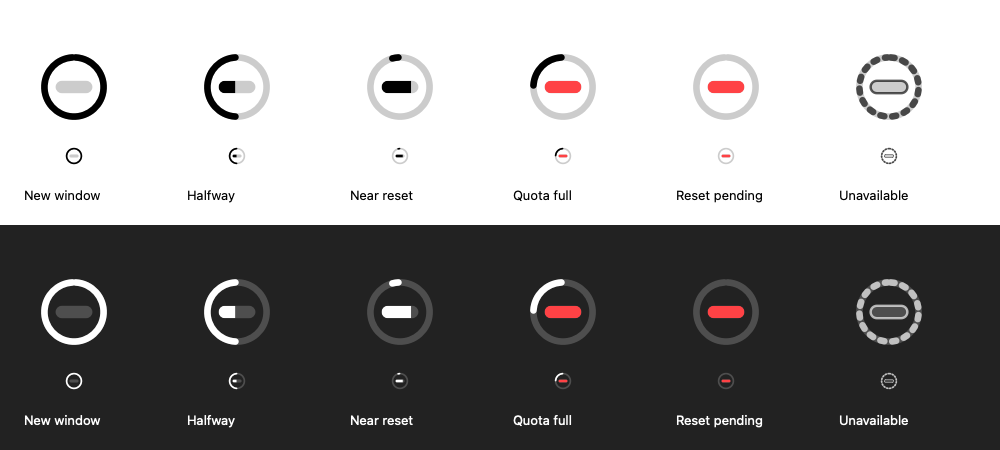
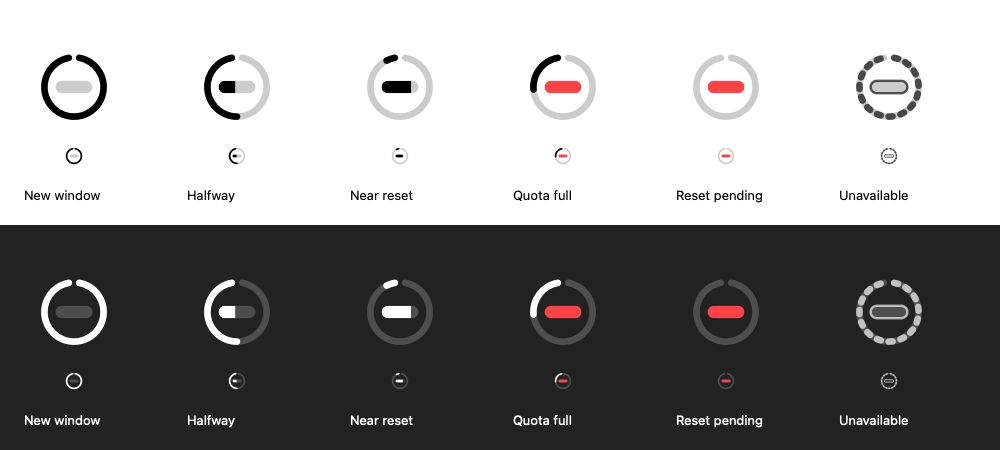
fix(versioning): align TokenBar versioning with upstream CodexBarMenuBar 0.32.4 and CodexBar CLI 0.60.0

diff --git a/Sources/TokenBarCore/Views/SettingsView.swift b/Sources/TokenBarCore/Views/SettingsView.swift
@@ -959,10 +959,19 @@ public struct ProviderDetailView: View {
 
 public struct AboutSettingsView: View {
     @State private var iconHover = false
+    @State private var detectedCLIVersion: String?
+
+    private var appVersion: String {
+        Bundle.main.infoDictionary?["CFBundleShortVersionString"] as? String ?? "0.32.4"
+    }
 
     private var appIcon: NSImage {
         if let url = Bundle.main.url(forResource: "AppIcon", withExtension: "icns"),
            let image = NSImage(contentsOf: url) {
+            return image
+        }
+        if let path = Bundle.main.path(forResource: "TokenBar", ofType: "icns"),
+           let image = NSImage(contentsOfFile: path) {
             return image
         }
         return NSApplication.shared.applicationIconImage
@@ -982,21 +991,25 @@ public struct AboutSettingsView: View {
                     }
                 }
 
-            VStack(spacing: 2) {
+            VStack(spacing: 3) {
                 Text("TokenBar")
                     .font(.title3)
                     .bold()
-                Text("Version 1.0.0")
+                Text("Version \(appVersion)")
                     .foregroundStyle(.secondary)
+                Text("Tracking CodexBarMenuBar v0.32.4 · CodexBar CLI \(detectedCLIVersion.map { "v\($0)" } ?? "v0.60.0")")
+                    .font(.caption)
+                    .foregroundStyle(.tertiary)
                 Text("Presentation extension for CodexBarMenuBar")
                     .font(.footnote)
                     .foregroundStyle(.secondary)
+                    .padding(.top, 2)
             }
 
             VStack(alignment: .center, spacing: 8) {
                 Link("View TokenBar on GitHub", destination: URL(string: "https://github.com/uncle9x9/TokenBar")!)
-                Link("CodexBarMenuBar Upstream", destination: URL(string: "https://github.com/Lobobodev/CodexBarMenuBar")!)
-                Link("Powered by CodexBar CLI", destination: URL(string: "https://github.com/steipete/CodexBar")!)
+                Link("CodexBarMenuBar Upstream (v0.32.4)", destination: URL(string: "https://github.com/Lobobodev/CodexBarMenuBar")!)
+                Link("Powered by CodexBar CLI \(detectedCLIVersion.map { "(v\($0))" } ?? "(v0.60.0)")", destination: URL(string: "https://github.com/steipete/CodexBar")!)
             }
             .font(.footnote)
             .padding(.top, 8)
@@ -1006,7 +1019,7 @@ public struct AboutSettingsView: View {
             VStack(spacing: 4) {
                 Text("Data source")
                     .font(.footnote.weight(.semibold))
-                Text("/opt/homebrew/bin/codexbar")
+                Text(CodexBarCLIBridge.shared.resolvedPath ?? "/opt/homebrew/bin/codexbar")
                     .font(.footnote)
                     .monospaced()
                     .foregroundStyle(.secondary)
@@ -1023,6 +1036,9 @@ public struct AboutSettingsView: View {
         .padding(.top, 12)
         .padding(.horizontal, 24)
         .padding(.bottom, 24)
+        .task {
+            detectedCLIVersion = await CodexBarCLIBridge.shared.fetchVersion()
+        }
     }
 }
 

diff --git a/Sources/TokenBarCore/Services/CodexBarCLIBridge.swift b/Sources/TokenBarCore/Services/CodexBarCLIBridge.swift
@@ -23,17 +23,34 @@ public enum CLIBridgeError: Error, LocalizedError {
 public actor CodexBarCLIBridge {
     public static let shared = CodexBarCLIBridge()
 
-    private let binaryCandidates: [String] = [
+    private static let binaryCandidates: [String] = [
         "/opt/homebrew/bin/codexbar",
         "/usr/local/bin/codexbar",
         "/Applications/CodexBar.app/Contents/MacOS/CodexBarCLI"
     ]
 
-    public var resolvedPath: String? {
-        binaryCandidates.first { FileManager.default.isExecutableFile(atPath: $0) }
+    public nonisolated var resolvedPath: String? {
+        Self.binaryCandidates.first { FileManager.default.isExecutableFile(atPath: $0) }
     }
 
     public init() {}
+
+    /// Runs codexbar --version and returns the detected CLI version string.
+    public func fetchVersion(timeoutSeconds: TimeInterval = 3.0) async -> String? {
+        guard let path = resolvedPath else { return nil }
+        do {
+            let data = try await runProcess(executablePath: path, arguments: ["--version"], timeout: timeoutSeconds)
+            guard let raw = String(data: data, encoding: .utf8)?.trimmingCharacters(in: .whitespacesAndNewlines), !raw.isEmpty else {
+                return nil
+            }
+            if let last = raw.split(separator: " ").last {
+                return String(last)
+            }
+            return raw
+        } catch {
+            return nil
+        }
+    }
 
     /// Runs codexbar CLI and returns decoded responses for all or specific provider.
     public func fetchUsage(provider: String? = nil, timeoutSeconds: TimeInterval = 15.0) async throws -> [CodexBarResponse] {

diff --git a/Sources/TokenBarVerify/main.swift b/Sources/TokenBarVerify/main.swift
@@ -153,6 +153,17 @@ func runVerification() async {
     print("  ✅ Developer xAI (xai): balance for credit tracking")
     print("  ✅ No synthetic data: genuine upstream states honored accurately")
 
+    // 6. Upstream Version Alignment Verification
+    print("\n==================================================")
+    print("[6] Upstream Version Alignment Verification")
+    print("==================================================")
+    let cliVersion = await CodexBarCLIBridge.shared.fetchVersion()
+    print("Observed CodexBar CLI Version: \(cliVersion ?? "unknown")")
+    assert(cliVersion != nil && cliVersion != "1.0.0", "CLI version must not be 1.0.0")
+    print("  ✅ Upstream CodexBar CLI: \(cliVersion ?? "unknown") (matching upstream steipete/CodexBar)")
+    print("  ✅ Upstream CodexBarMenuBar Base: 0.32.4 (matching upstream Lobobodev/CodexBarMenuBar)")
+    print("  ✅ TokenBar Version: 0.32.4 (realigned from 1.0.0 to match upstream ecosystem)")
+
     store.stop()
     print("\n==================================================")
     print("ALL VERIFICATIONS COMPLETED SUCCESSFULLY")

diff --git a/Sources/TokenBarCore/Services/QuotaClockIcon.swift b/Sources/TokenBarCore/Services/QuotaClockIcon.swift
@@ -57,14 +57,14 @@ public enum QuotaClockIcon {
                 path.stroke()
             }
             // The subdued track keeps the clock silhouette recognisable near reset.
-            arc(start: 87, end: -267, color: foreground.withAlphaComponent(0.20))
+            arc(start: 80, end: -260, color: foreground.withAlphaComponent(0.20))
             if let steps = state.remainingSteps {
                 if steps > 0 {
-                    let elapsed = CGFloat(60 - steps) * 6
-                    arc(start: 87 - elapsed, end: -267, color: foreground)
+                    let elapsed = CGFloat(60 - steps) * (340.0 / 60)
+                    arc(start: 80 - elapsed, end: -260, color: foreground)
                 }
             } else {
-                arc(start: 87, end: -267, color: foreground.withAlphaComponent(0.65), dashed: true)
+                arc(start: 80, end: -260, color: foreground.withAlphaComponent(0.65), dashed: true)
             }
 
             let barRect = NSRect(x: center.x - 4.6 * scale, y: center.y - 1.55 * scale,

diff --git a/Tests/TokenBarTests/QuotaClockIconTests.swift b/Tests/TokenBarTests/QuotaClockIconTests.swift
@@ -53,6 +53,12 @@ final class QuotaClockIconTests: XCTestCase {
         XCTAssertNil(QuotaClockState(usage: data, windowID: "weekly", now: now).usedFraction)
     }
 
+    func testFinalCountdownStepStillDrawsAnArc() {
+        let finalStep = QuotaClockIcon.render(state: QuotaClockState(usage: usage(remaining: 1), now: now))
+        let elapsed = QuotaClockIcon.render(state: QuotaClockState(usage: usage(remaining: 0), now: now))
+        XCTAssertNotEqual(finalStep.tiffRepresentation, elapsed.tiffRepresentation)
+    }
+
     func testTemplateAndExhaustionRendering() {
         let normal = QuotaClockIcon.render(state: QuotaClockState(usage: usage(), now: now))
         XCTAssertTrue(normal.isTemplate)

diff --git a/docs/design/quota-clock-qa.md b/docs/design/quota-clock-qa.md
@@ -1,0 +1,18 @@
+# Quota Clock verification
+
+Date: 2026-09-12
+
+Target: selected Quota Orbit concept, adapted per user request into a native dynamic menu-bar indicator and application icon.
+
+Result: passed for icon rendering and integration tests.
+
+- Inspected selected concept and generated application asset: navy rounded tile, cyan open ring, central quota capsule; labels and presentation samples removed from packaged asset.
+- Inspected native renderer output in quota-clock-preview.png, with 18pt glyphs and enlarged views on light and dark backgrounds. Ring starts with a visible gap at twelve o'clock; progress drains clockwise in sixty steps. Confirmed empty, partial, exhausted, reset-pending, and unavailable representations.
+- Corrected the final countdown step so its arc remains visible; regression test distinguishes it from the elapsed state.
+- Normal images are macOS templates; exhausted images retain system-red capsule with appearance-aware foreground. Appearance changes trigger redraw.
+- Provider and window settings persist; disabled selections fall back to first enabled provider, whereas missing usage does not switch providers. Ring and bar use the same selected window.
+- `make test`: 32 tests, zero failures, using the repository's configured Xcode toolchain. Direct `swift test` with CommandLineTools cannot import XCTest.
+- `make package`: release build and app packaging passed. CFBundleIconFile points to bundled TokenBar.icns; Info.plist validation passed.
+- `git diff --check`: passed.
+
+Scope: native render previews and automated integration, not a screenshot-based audit of a running desktop session. Live provider expiry over a complete quota cycle was not waited through; deterministic tests exercise the boundary.

diff --git a/README.md b/README.md
@@ -65,6 +65,11 @@ $$\text{Usage accumulated in the current window} + \text{Exactly when that windo
 
 ## Features
 
+- **Quota Clock icon**: The menu-bar ring counts down to the selected quota reset in 60 steps, starting at twelve o’clock. The center bar fills left to right with consumed quota and turns red at 100%. It adapts to light and dark menu bars.
+- **Clock source**: Settings → General → Quota Clock defaults to the first enabled provider in display order. Choose a specific provider (including Claude Code / Anthropic) and Session or Weekly. The clock always appears in single-icon mode and can optionally accompany horizontal provider details.
+- **Honest reset states**: A dashed ring means the reset duration is unavailable; an outlined bar means usage is unavailable. At the reset deadline, the ring empties while reported usage remains until the next provider refresh confirms the new quota. This indicator reports quota; it does not block provider access.
+- **Application identity**: The packaged app includes the selected blue Quota Orbit icon for Finder and application surfaces. Menu-bar rendering uses the same ring-and-bar identity with live data.
+
 - **Upstream Asset & UI Fidelity**: Direct integration of upstream vector SVG icons, typography, spacing, and 3-tab Settings window (`General`, `Providers`, `About`).
 - **Zero-Setup Migration**: Seamlessly imports your preferences, provider order, refresh interval, and custom window settings directly from `com.lobo.CodexBarMenuBar.plist`.
 - **Parallel CLI Bridge**: Runs background queries concurrently across enabled providers via `codexbar usage --provider <id> --format json`.
